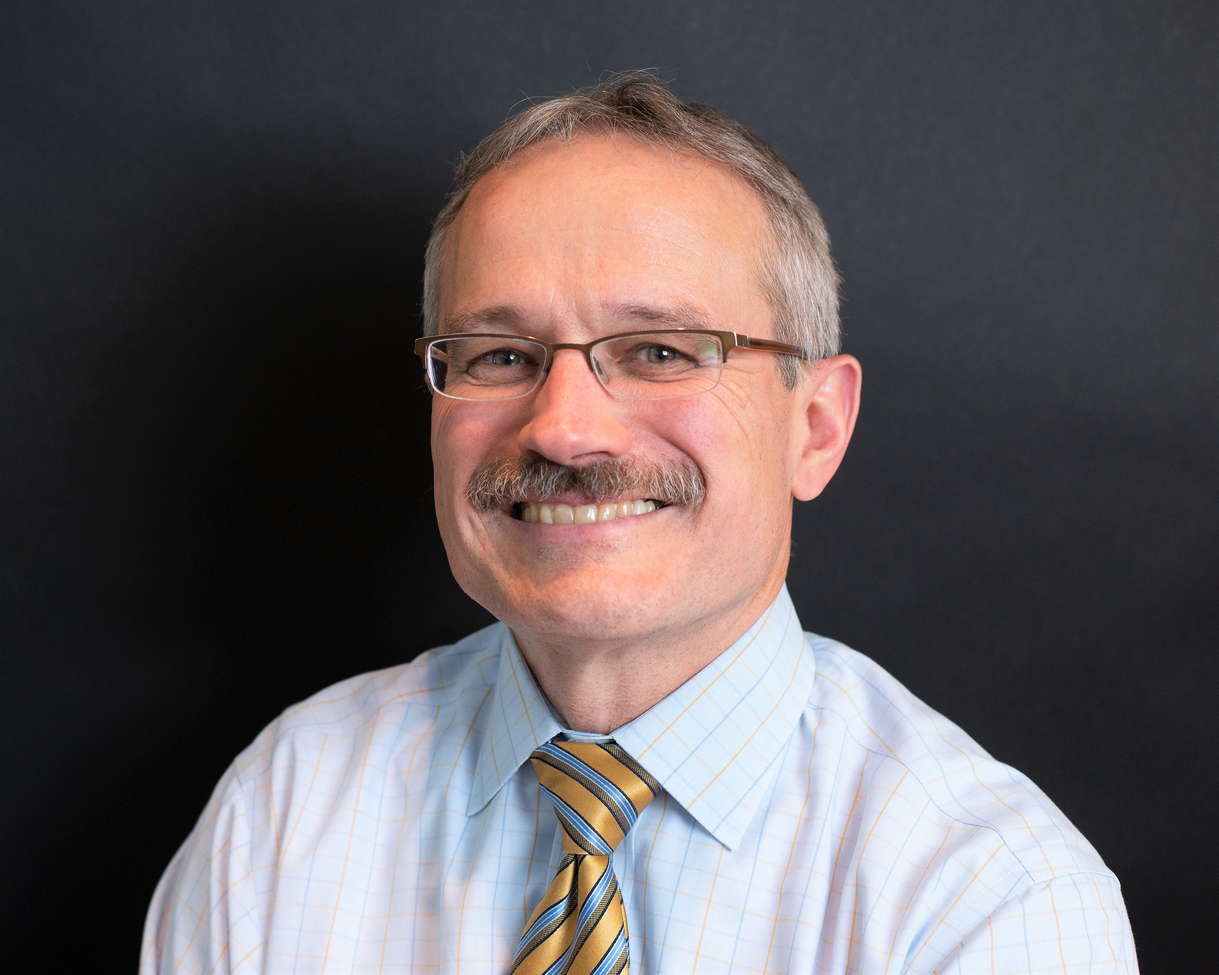
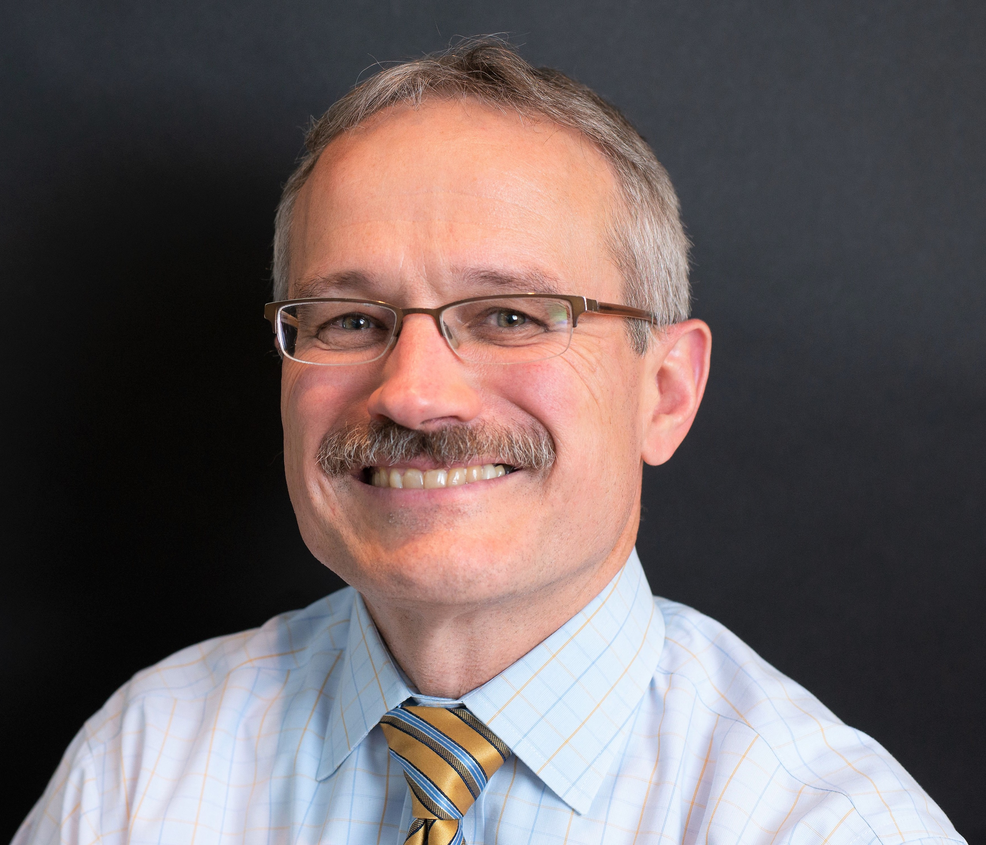
meet the team, testimonials and contact finished

diff --git a/src/components/Sections/MeetTheTeam.js b/src/components/Sections/MeetTheTeam.js
@@ -1,5 +1,6 @@
 import React from "react";
 import styled from "styled-components";
+import { theme } from "../../theme";
 
 import TWHeadshot from "../../images/TW_headshot.jpg";
 import LIHeadshot from "../../images/LI_headshot.jpg";
@@ -11,9 +12,7 @@ const AboutUs = () => (
     <BioWrapper>
       <SubHeading>Timothy Walsh, Founder and CEO</SubHeading>
       <Container>
-        <ImgContainer>
-          <img src={TWHeadshot} alt="Timothy Walsh" />
-        </ImgContainer>
+        <ImgContainer pictureUrl={TWHeadshot} />
         <TextContainer>
           <p>
             For nearly three decades, Walsh Consulting founder, Timothy Walsh,
@@ -33,17 +32,15 @@ const AboutUs = () => (
             target="_blank"
             rel="noopener noreferrer"
           >
-            Full CV available for download
+            Download CV
           </Link>
         </TextContainer>
       </Container>
     </BioWrapper>
     <BioWrapper>
-      <SubHeading>Lana Izakson, ROLE</SubHeading>
+      <SubHeading>Lana Izakson, Tax Director</SubHeading>
       <Container>
-        <ImgContainer>
-          <img src={LIHeadshot} alt="Lana Izakson" />
-        </ImgContainer>
+        <ImgContainer pictureUrl={LIHeadshot} />
         <TextContainer>
           <p>
             Lana is a CPA with more than 20 years of experience in providing tax
@@ -58,11 +55,9 @@ const AboutUs = () => (
       </Container>
     </BioWrapper>
     <BioWrapper>
-      <SubHeading>Melissa Laccitiello, ROLE</SubHeading>
+      <SubHeading>Melissa Laccitiello, Bookkeeper</SubHeading>
       <Container>
-        <ImgContainer>
-          <img src={MLHeadshot} alt="Melissa Laccitiello" />
-        </ImgContainer>
+        <ImgContainer pictureUrl={MLHeadshot} />
         <TextContainer>
           <p>
             Melissa Laccitiello is a seasoned Executive Assistant with over 24
@@ -111,14 +106,25 @@ const TextContainer = styled.div`
 `;
 
 const ImgContainer = styled.div`
-  max-width: 260px;
-  margin-right: 40px;
+  min-width: 248px;
+  height: 212px;
+  background-image: url(${(props) => props.pictureUrl});
+  background-position: center;
+  background-size: cover;
+  background-repeat: no-repeat;
   overflow: hidden;
+  border: 6px solid ${theme.colors.primaryGreen};
+  margin-right: 40px;
+  border-radius: 2px;
 `;
 
 const Link = styled.a`
   text-decoration: underline;
   cursor: pointer;
+  color: black;
+  &:hover {
+    color: ${theme.colors.primaryGreen};
+  }
 `;
 
 export default AboutUs;

diff --git a/src/components/Sections/Testimonials.js b/src/components/Sections/Testimonials.js
@@ -4,21 +4,29 @@ import styled from "styled-components";
 const Testimonials = () => (
   <Wrapper id="testimonials">
     <Heading>Testimonials</Heading>
-    <h5>Jann Wenner</h5>
-    <p>Founder, Chief Executive Officer, Wenner Media</p>
-    <i>
-      “Tim is a skillful, financial leader. His business acumen, integrity,
-      honesty, and tireless dedication has proven invaluable to Wenner Media and
-      my family throughout our nearly 30 year relationship.”
-    </i>
-    <h5>Gus Wenner</h5>
-    <p>President, Chief Operating Officer, Wenner Media</p>
-    <i>
-      “Tim was instrumental in the operation and sale of Wenner Media and is
-      steadfast in his commitment to my family. I am extremely pleased that he
-      has established Walsh Consulting and that he will continue to manage my
-      Family’s wealth.”
-    </i>
+    <Testimonial>
+      <Quote>
+        “Tim is a skillful, financial leader. His business acumen, integrity,
+        honesty, and tireless dedication has proven invaluable to Wenner Media
+        and my family throughout our nearly 30 year relationship.”
+      </Quote>
+      <Name>
+        <b>- Jann Wenner, </b>
+      </Name>
+      <Name> Founder, Chief Executive Officer, Wenner Media</Name>
+    </Testimonial>
+    <Testimonial>
+      <Quote>
+        “Tim was instrumental in the operation and sale of Wenner Media and is
+        steadfast in his commitment to my family. I am extremely pleased that he
+        has established Walsh Consulting and that he will continue to manage my
+        Family’s wealth.”
+      </Quote>
+      <Name>
+        <b>- Gus Wenner, </b>
+      </Name>
+      <Name> President, Chief Operating Officer, Wenner Media</Name>
+    </Testimonial>
   </Wrapper>
 );
 
@@ -29,6 +37,21 @@ const Wrapper = styled.div`
 `;
 
 const Heading = styled.h2`
+  font-family: Raleway;
+  margin-bottom: 40px;
+`;
+
+const Testimonial = styled.div`
+  margin: 0 0 40px;
+`;
+
+const Quote = styled.div`
+  font-style: italic;
+  margin-bottom: 6px;
+`;
+
+const Name = styled.span`
+  font-size: 15px;
   font-family: Raleway;
 `;
 

diff --git a/src/components/Sections/Contact.js b/src/components/Sections/Contact.js
@@ -3,20 +3,44 @@ import styled from "styled-components";
 
 const Contact = () => (
   <Wrapper id="contact-us">
-    <Heading>Contact Us</Heading>
-    <p>Timwalsh@walshconsultingLLC.com</p>
-    <p>917-304-2597</p>
+    <Divider />
+    <Container>
+      <ContactInfo>Timwalsh@walshconsultingLLC.com</ContactInfo>
+      <Dot>&#8226;</Dot>
+      <ContactInfo>917-304-2597</ContactInfo>
+      <Dot>&#8226;</Dot>
+      <ContactInfo>
+        © {new Date().getFullYear()}, Walsh Consulting, LLC. All rights
+        reserved.
+      </ContactInfo>
+    </Container>
+    <Divider />
   </Wrapper>
 );
 
 const Wrapper = styled.div`
   margin: 40px auto;
   max-width: 1180px;
-  padding: 40px 1.0875rem 1.45rem;
+  padding: 40px 1.0875rem 20px;
 `;
 
-const Heading = styled.h2`
-  font-family: Raleway;
+const Divider = styled.div`
+  border: 0.5px solid #ddd;
+  margin: 20px 0;
+`;
+
+const Container = styled.div`
+  display: flex;
+  font-size: 14px;
+  justify-content: center;
+`;
+
+const ContactInfo = styled.div`
+  margin: 0 10px;
+`;
+
+const Dot = styled(ContactInfo)`
+  color: #ddd;
 `;
 
 export default Contact;

diff --git a/src/pages/index.js b/src/pages/index.js
@@ -21,22 +21,12 @@ const IndexPage = () => (
       <Testimonials />
     </Section>
     <Contact />
-    {/* <Copyright>
-      © {new Date().getFullYear()}, Walsh Consulting, LLC. All rights reserved.
-    </Copyright> */}
   </Layout>
 );
 
 const Section = styled.div`
   background-color: rgb(242, 242, 243);
   margin: 40px auto;
-`;
-
-const Copyright = styled.footer`
-  margin: 20px 0 10px;
-  bottom: 0;
-  position: absolute;
-  font-size: 14px;
 `;
 
 export default IndexPage;
